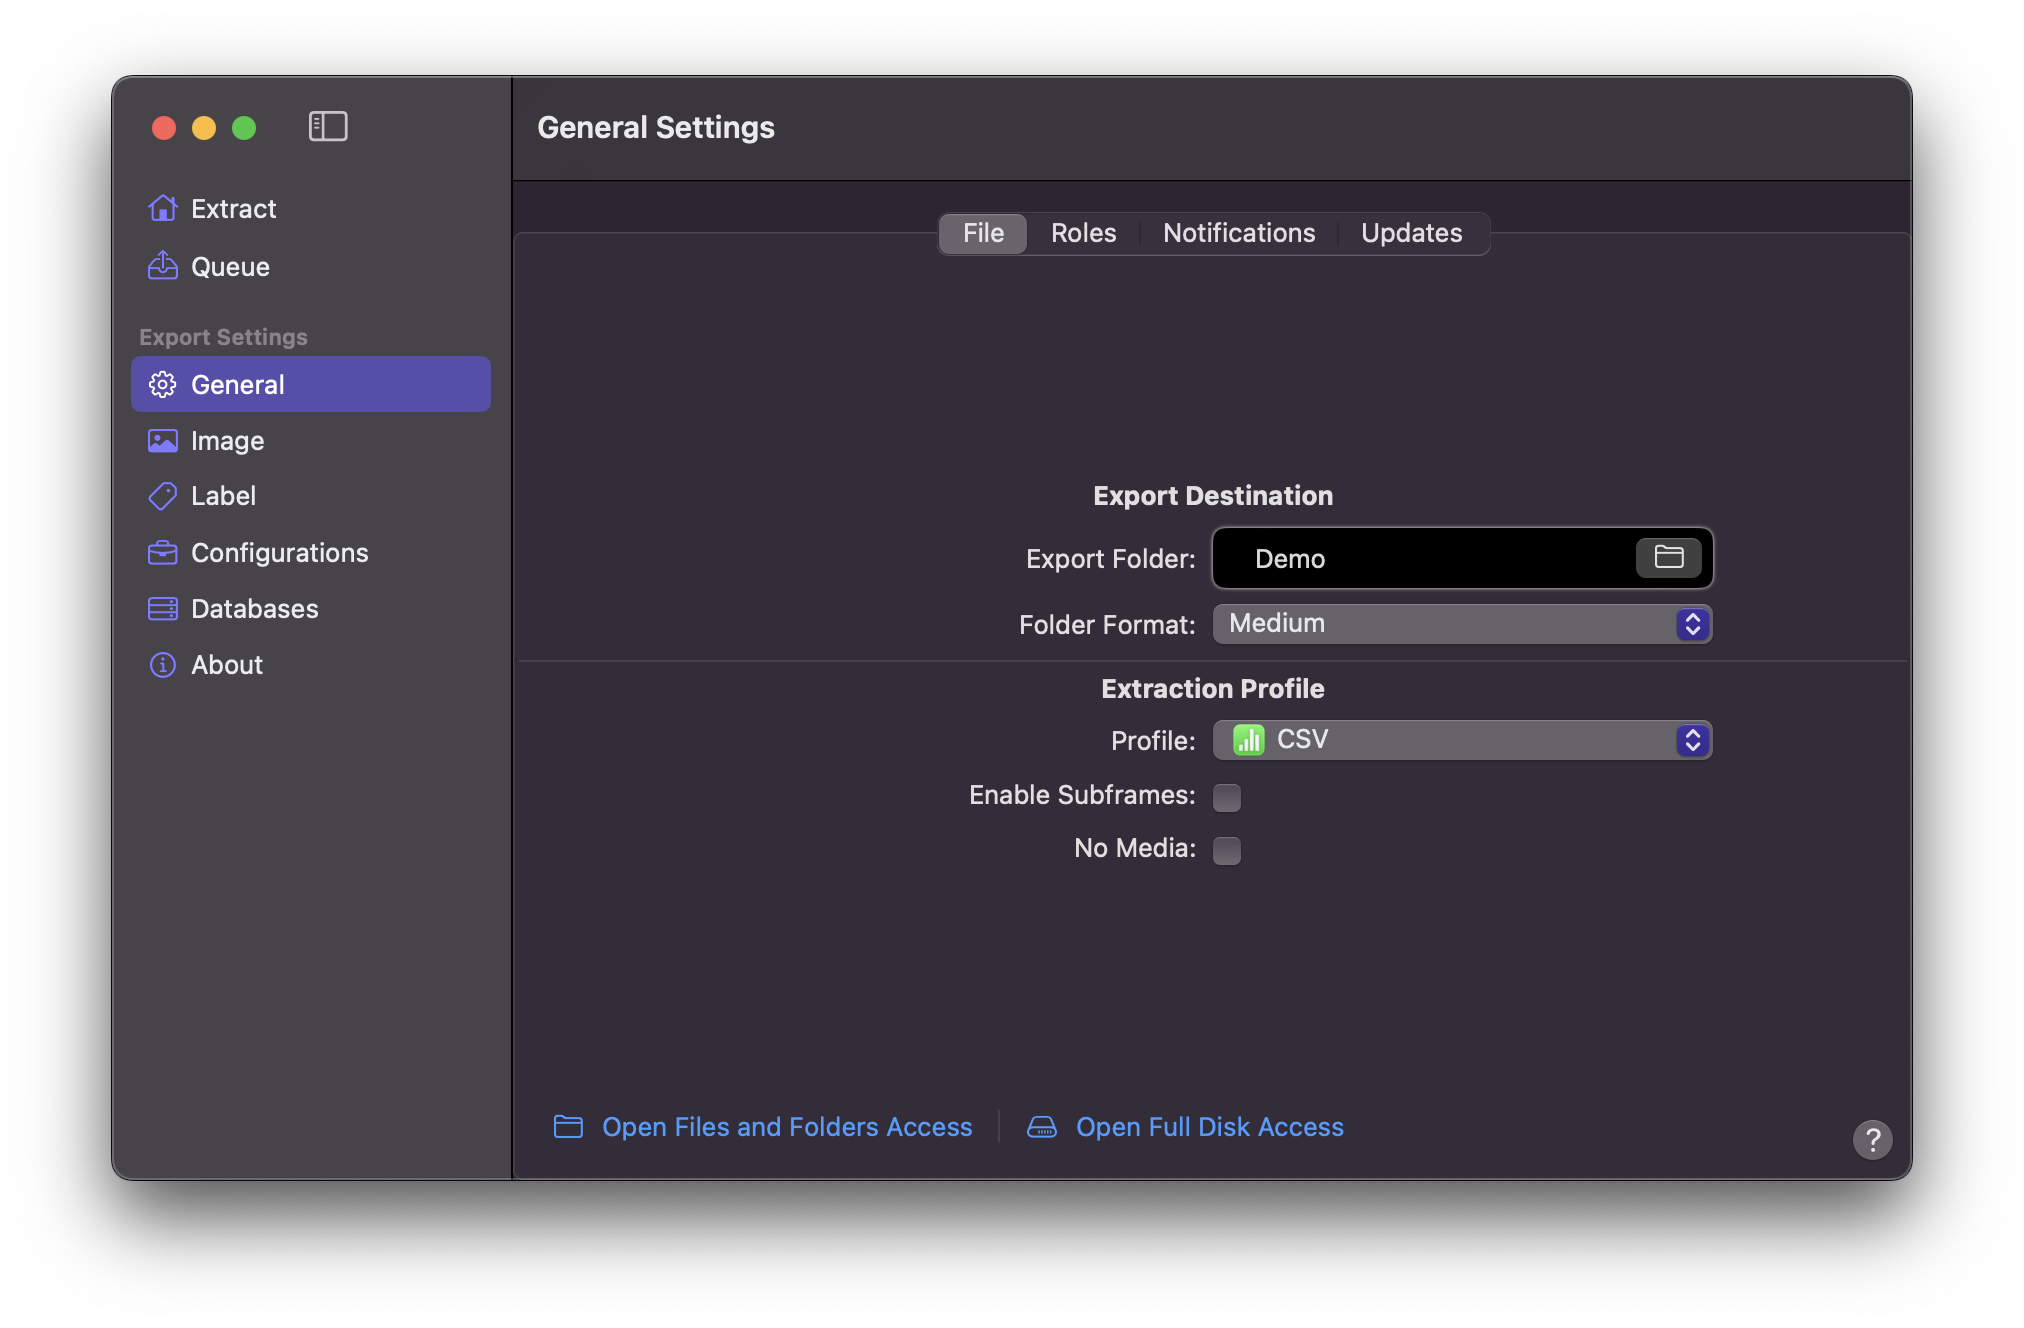
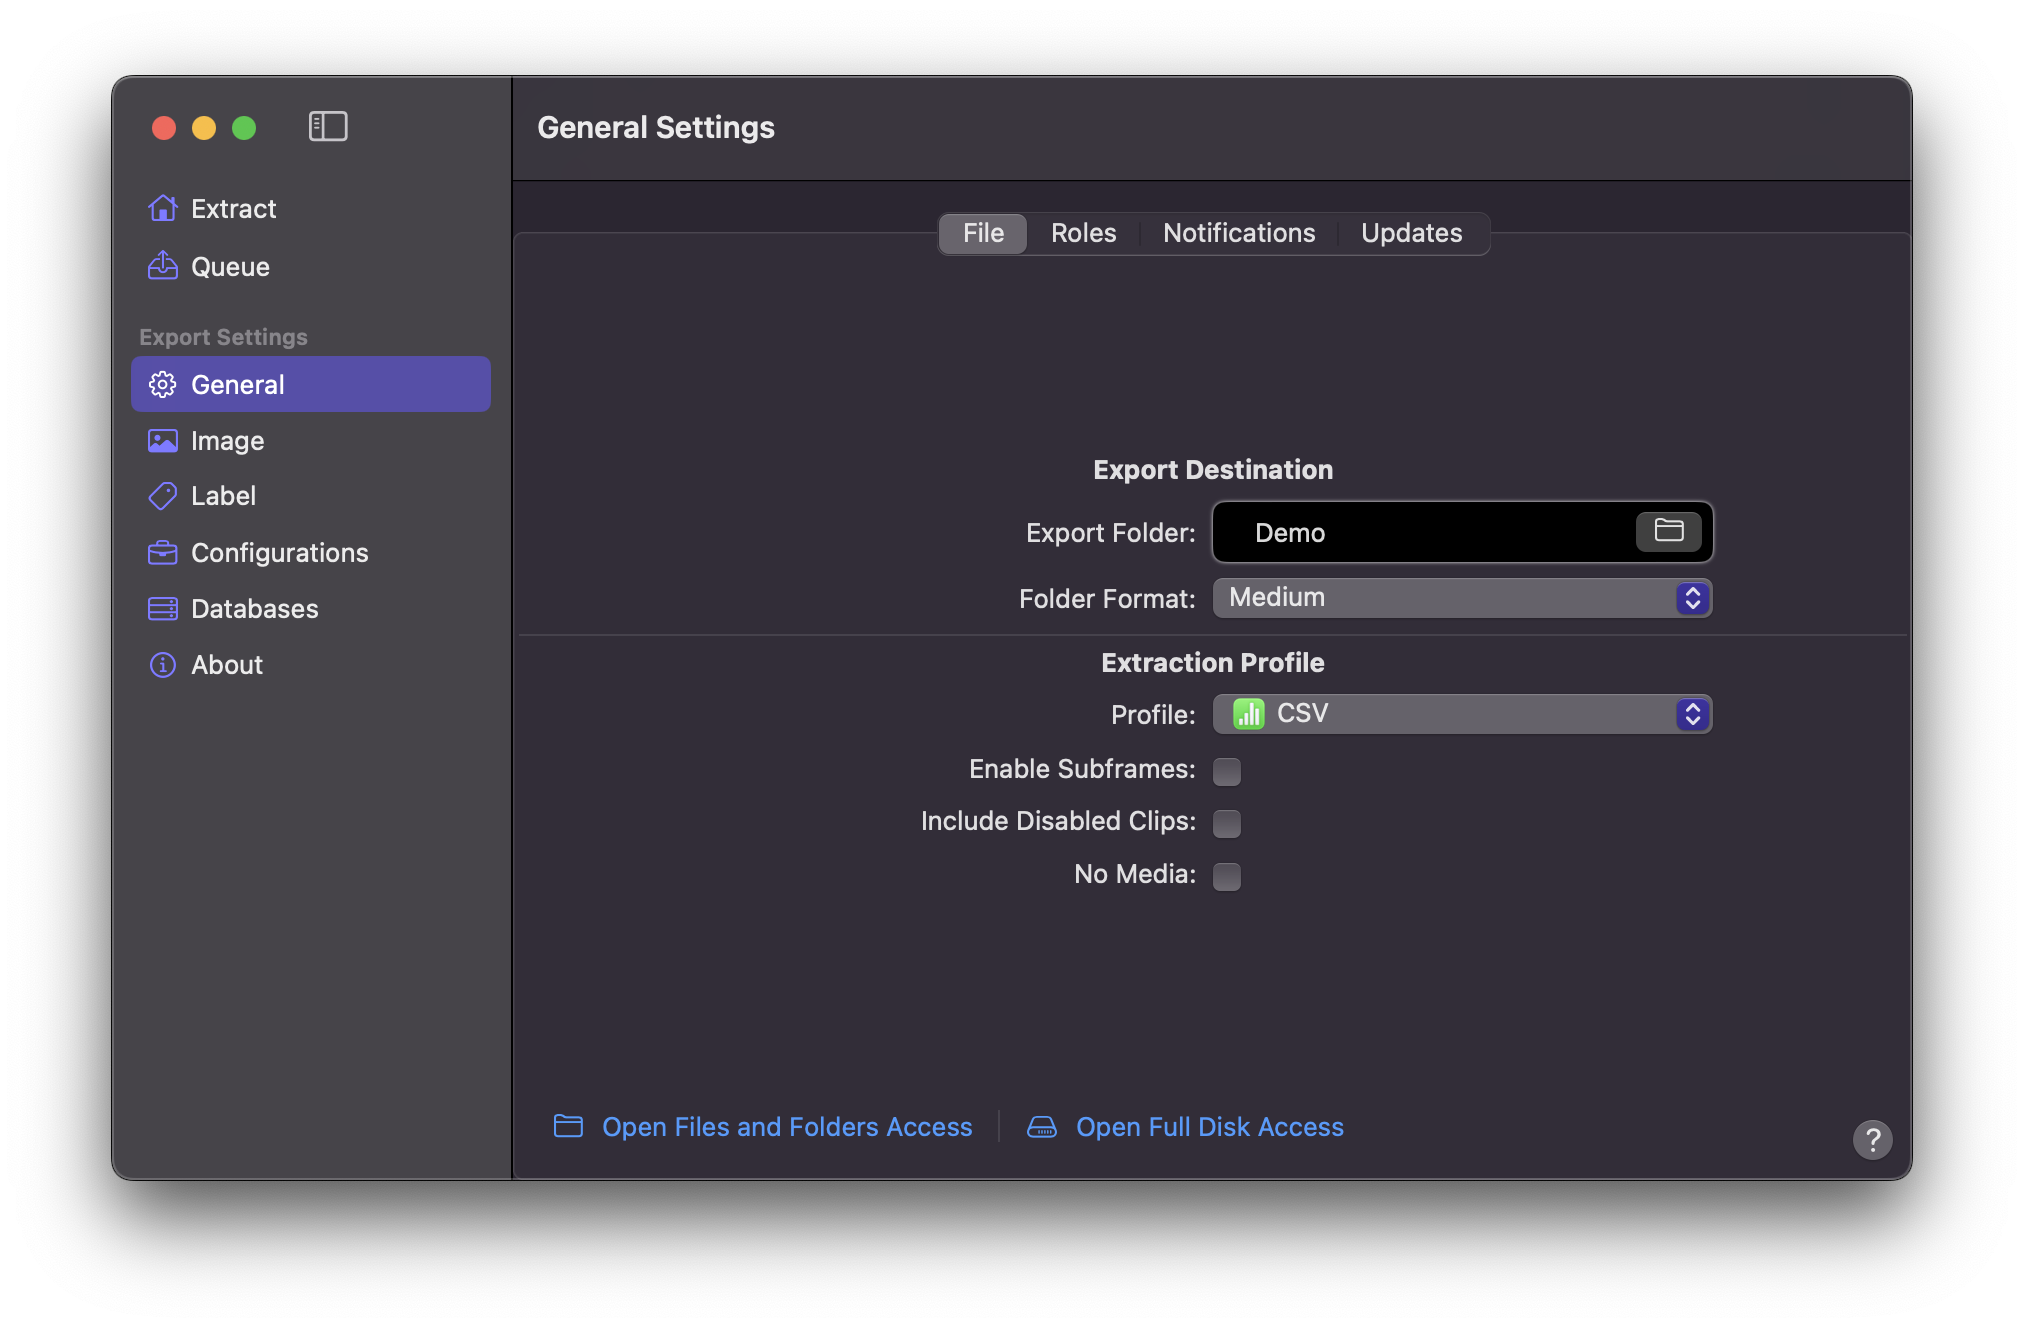
Update

Changed region(s): [[0.4669, 0.3396, 0.8715, 0.6792]]

diff --git a/docs/User Guide/General.md b/docs/User Guide/General.md
@@ -60,11 +60,15 @@ Select your desired Extraction Profile.
 A subframe has 1/80 the duration of a video frame and is a more precise unit of reference when viewing or editing audio waveforms that are zoomed in to the sample level.
 !!!
 
-Checking Enable Subframes will **Marker Data** to include the subframes in the `Marker ID`.
+Checking Enable Subframes will allow **Marker Data** to include the subframes in the `Marker ID`.
 
 !!!info Info
 Enable Subframes will only work for `Timecode` under Naming Mode.
 !!!
+
+### Include Disabled Clips
+
+Checking Include Disabled Clips will allow **Marker Data** to include markers from disabled clips.
 
 ### No Media
 
